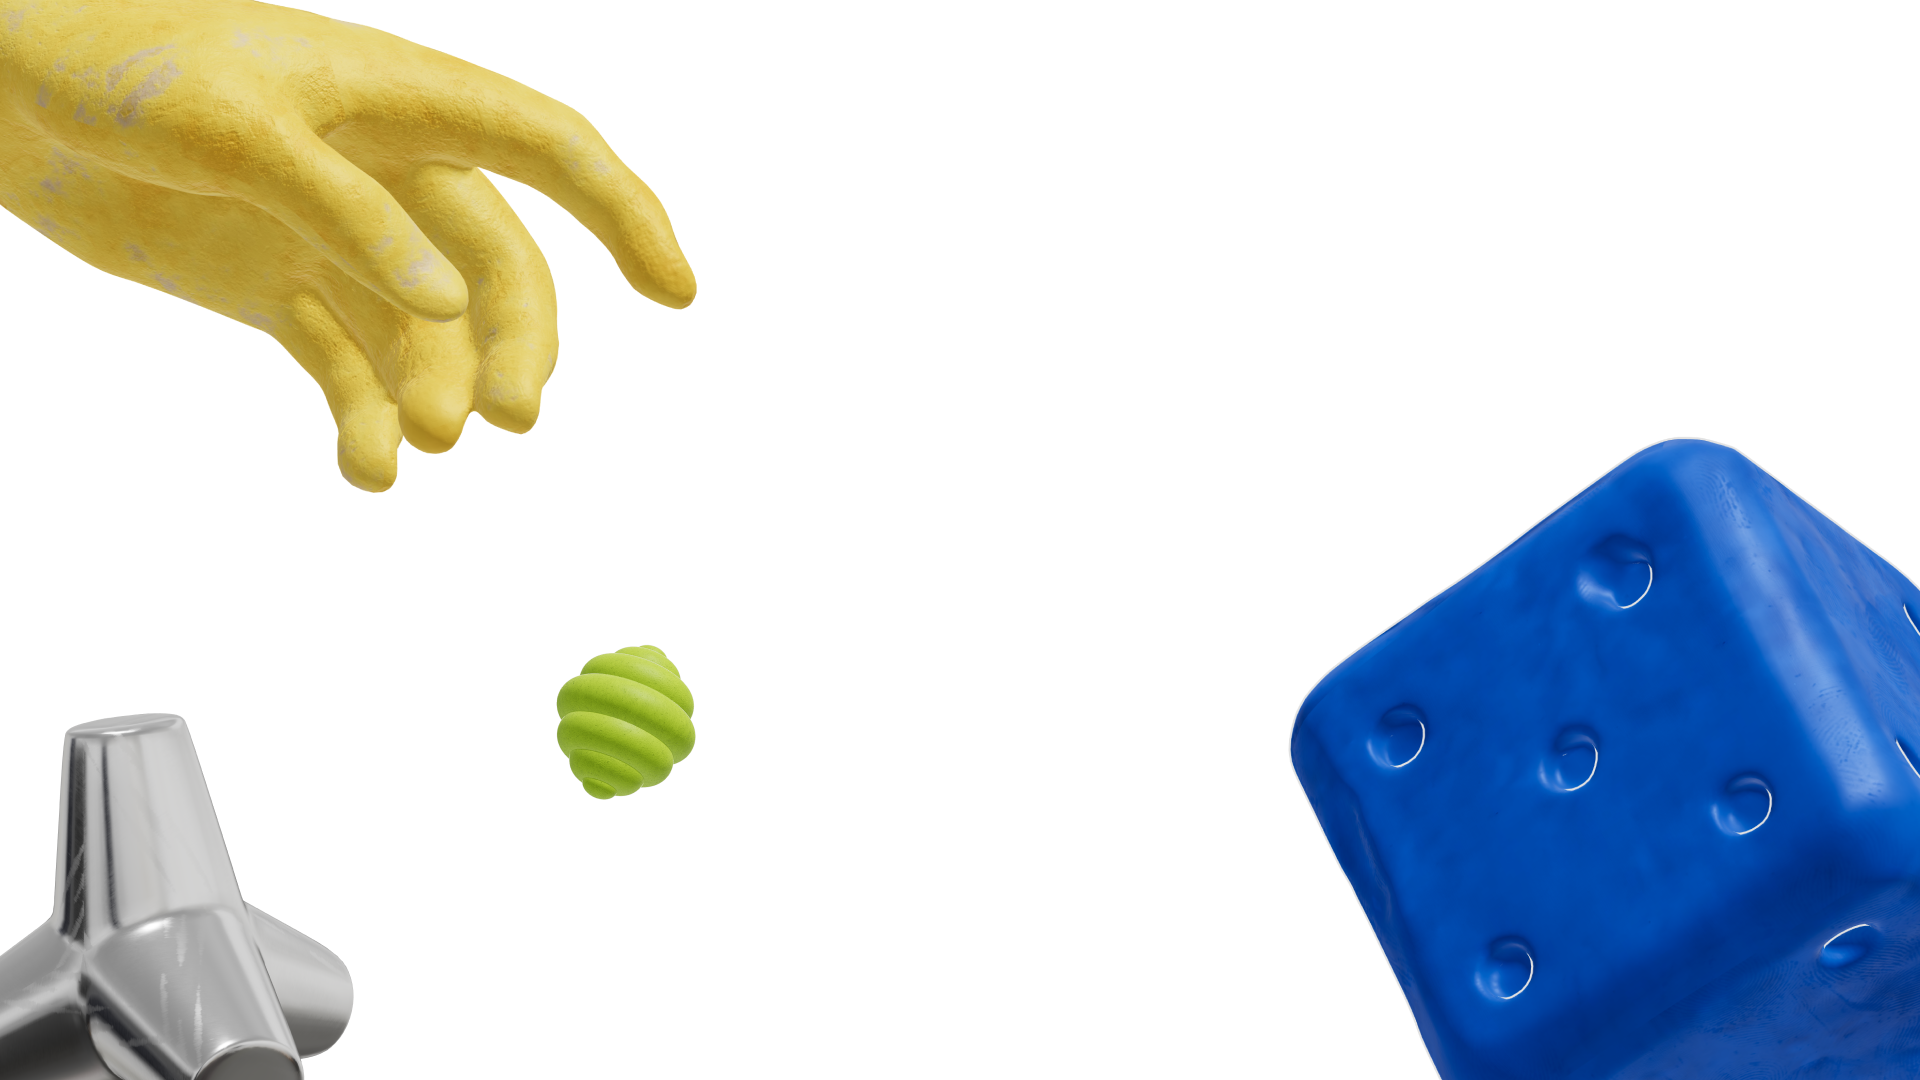
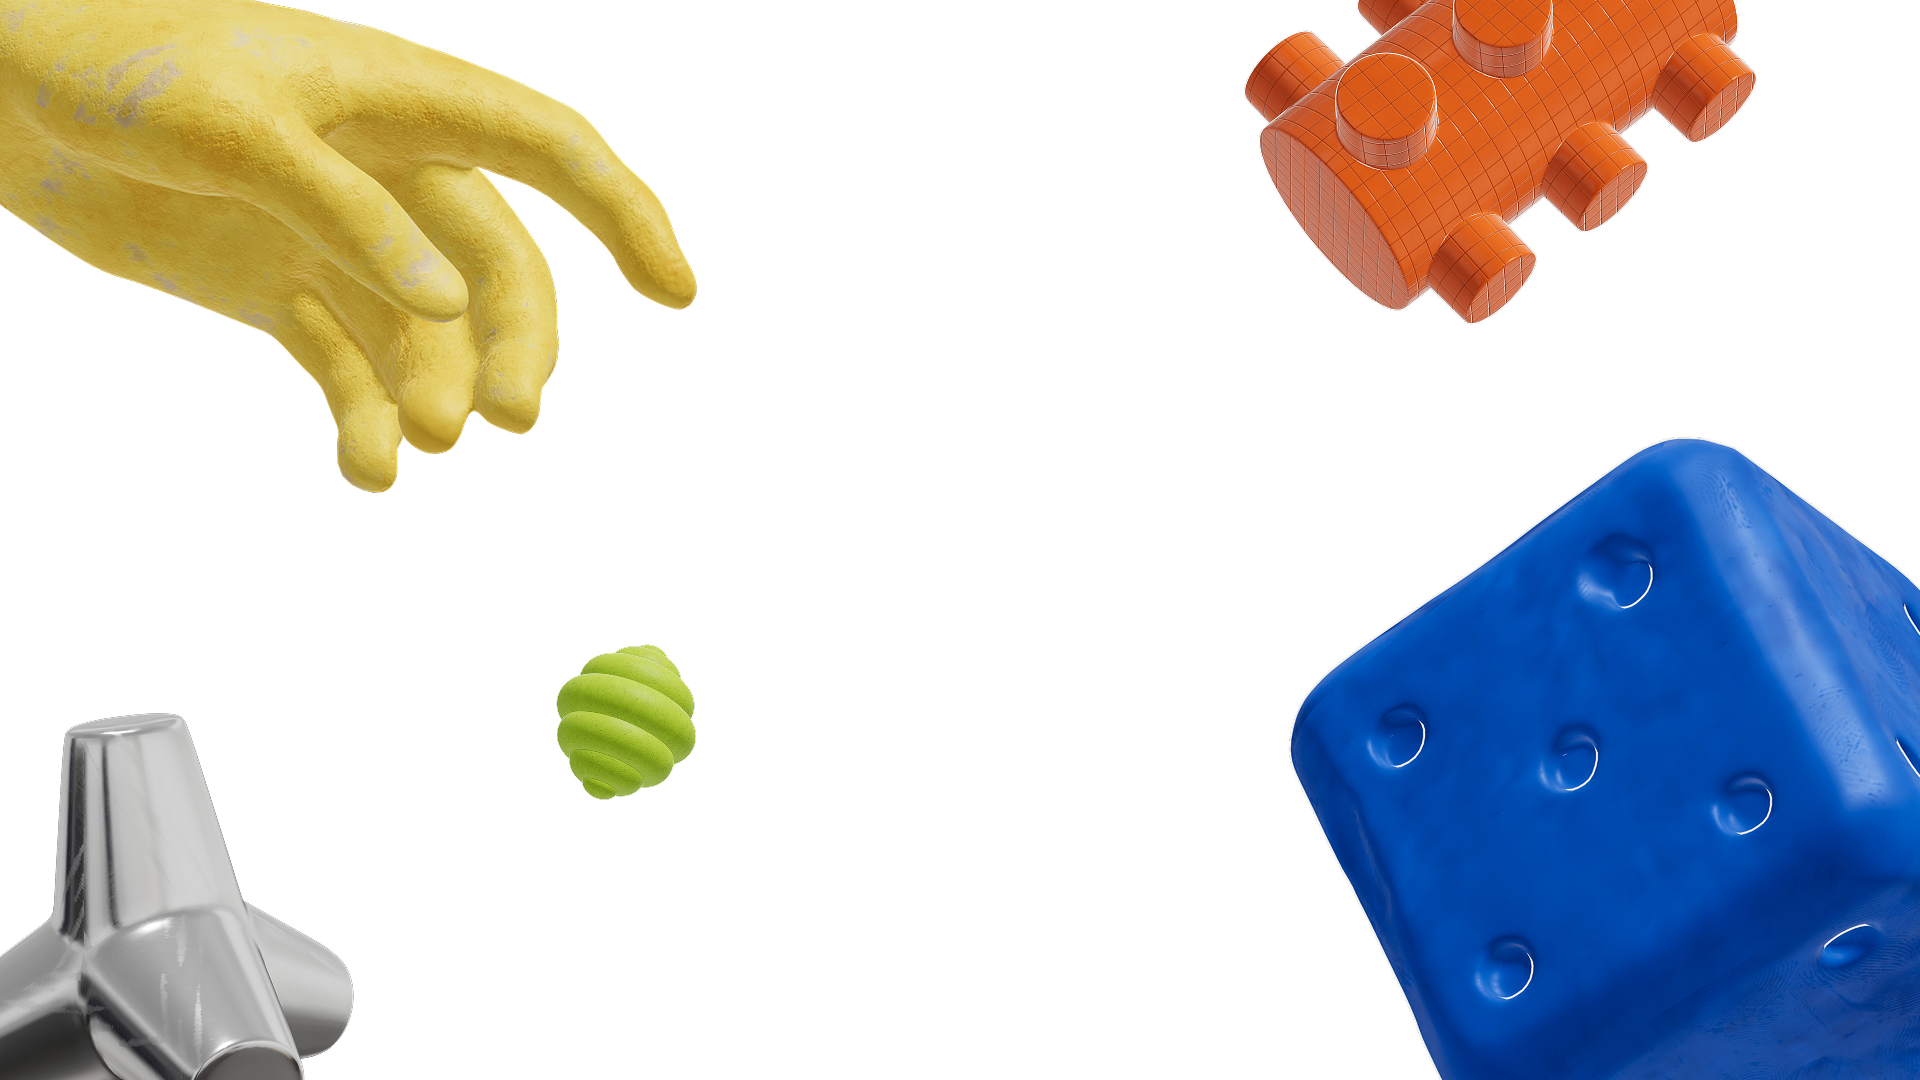
First slide fully operational

Changed region(s): [[0.625, 0.0, 0.9375, 0.3056]]

diff --git a/src/libraries/templates.js b/src/libraries/templates.js
@@ -4,7 +4,7 @@ const templates = {
     titleSlide: {
       title: "Title Slide",
       elements: [
-        { type: "image", imageSrc: "https://picsum.photos/200", position: [0, 0], size: [1920, 1080] },
+        { type: "image", imageSrc: "https://raw.githubusercontent.com/ntizish/startup-starter-1/refs/heads/main/src/app/assets/images/slides/CM/CM_1.png", position: [0, 0], size: [1920, 1080] },
         { type: "text", content: "Project Title", position: [360, 440], color: '#000000', fontSize: 96, size: [1200, 200], alignHorizontal: "CENTER", alignVertical: "CENTER" },
         { type: "text", content: "Larger description of the way that product solves the issue. May be longer that a sentence and up to 8 lines of text.", position: [664, 870], color: '#000000', fontSize: 20, size: [592, 160], alignHorizontal: "CENTER", alignVertical: "BOTTOM"  }]
     }
